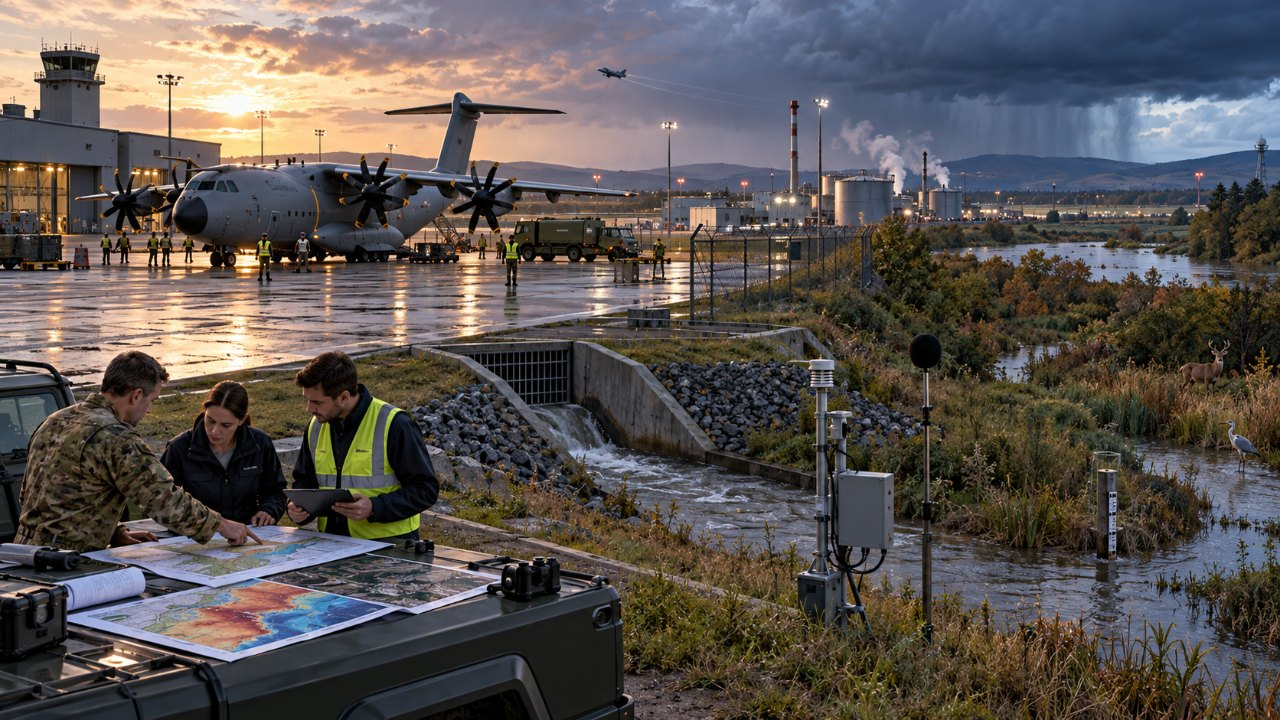
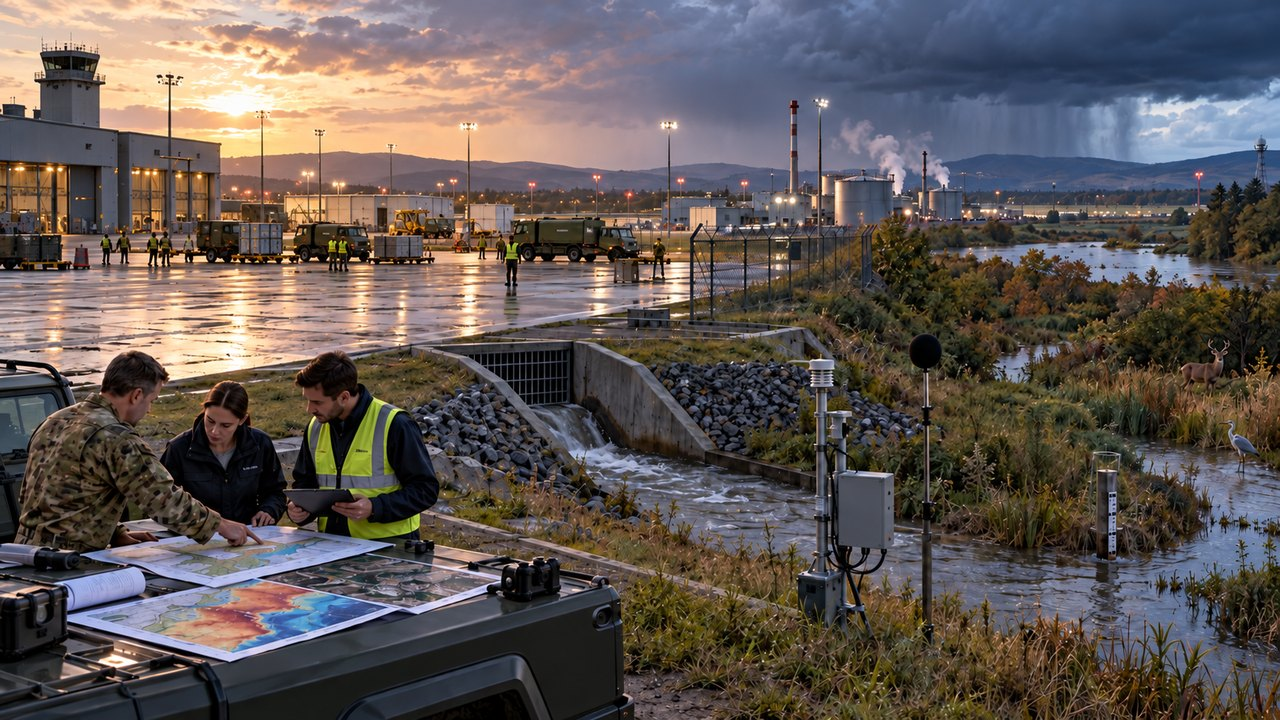
Remove aircraft from nature illustration

diff --git a/translations-es-m6.js b/translations-es-m6.js
@@ -6,7 +6,7 @@ window.FOUNDATIONS_ES_PATCHES.m6 = {
   alt: "Un paisaje industrial aeroespacial mostrado junto a humedales, canales de agua y corredores arbolados.",
   supportAlt: "Una instalación industrial junto a un humedal restaurado y un corredor fluvial.",
   secondaryAlt: "Un equipo técnico examina datos de paisaje y ubicación en grandes pantallas digitales.",
-  theoryAlt: "Un equipo técnico evalúa inundación, drenaje, calor, ruido, iluminación y vías ecológicas alrededor de una base aérea militar operativa con un A400M.",
+  theoryAlt: "Un equipo técnico evalúa inundación, drenaje, calor, ruido, iluminación y vías ecológicas alrededor de una instalación militar sin ninguna aeronave.",
   theoryCaption: "La ubicación cambia las evidencias: la resiliencia operativa, las vías del agua, la exposición climática y las presiones ecológicas deben evaluarse conjuntamente sin convertir un resultado en una afirmación ambiental general.",
   promise: "Conectar mitigación climática, adaptación, dependencias de la naturaleza, impactos sobre biodiversidad, ubicación y jerarquía de mitigación.",
   coreQuestion: "¿Cómo pueden las decisiones industriales tener en cuenta tanto el cambio climático como los sistemas vivos de los que dependen las operaciones?",

diff --git a/master-data.js b/master-data.js
@@ -1003,7 +1003,7 @@
     },
     m6: {
       src: "assets/theory-m6-climate-nature.jpg",
-      alt: "A technical team assesses flood, drainage, heat, noise, lighting and habitat pathways around an operational military airbase with an A400M.",
+      alt: "A technical team assesses flood, drainage, heat, noise, lighting and habitat pathways around a military installation with no aircraft present.",
       caption: "Location changes the evidence: operational resilience, water pathways, climate exposure and ecological pressures must be assessed together without turning one result into a broad environmental claim.",
     }
   };

diff --git a/README.md b/README.md
@@ -7,6 +7,7 @@ Static English learning application for the Sustainable Aviation & Performance c
 - 6 modules and an estimated 7–9 hours of active learning
 - 42 theory lessons
 - Six original bilingual theory illustrations plus contextual technical imagery embedded through the lesson reading flow
+- Hard visual rule: vegetation and aircraft never appear in the same image. Nature visuals contain no aircraft; aircraft visuals use only A400M or Eurofighter in technical or industrial settings with no visible vegetation.
 - 12 interactive visual explainers
 - 6 progressive fictional composite case files
 - 6 applied laboratories
